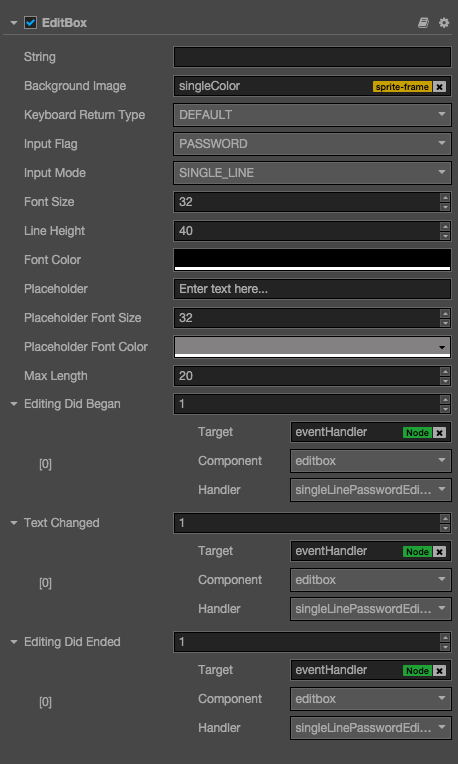
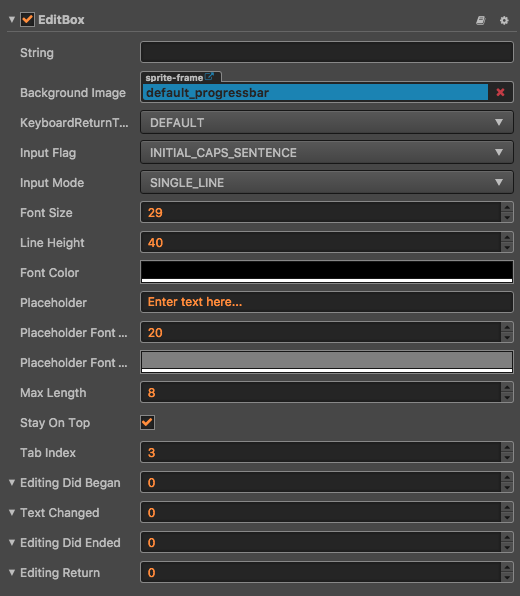
add editbox StayOnTop and TabIndex docs

diff --git a/source/zh/components/editbox.md b/source/zh/components/editbox.md
@@ -17,7 +17,9 @@ EditBox 的脚本接口请参考[EditBox API](../api/classes/EditBox.html)。
 | Keyboard Return Type | 指定移动设备上面回车按钮的样式
 | Input Flag | 指定输入标识：可以指定输入方式为密码或者单词首字母大写
 | Input Mode | 指定输入模式: ANY 表示多行输入，其它都是单行输入，移动平台上还可以指定键盘样式。
-|Font Size| 输入框文本的字体大小
+| Font Size| 输入框文本的字体大小
+| StayOnTop | 输入框总是可见，并且永远在游戏视图的上面
+| TabIndex | 修改 DOM 输入元素的 tabIndex，这个属性只有在 Web 上面修改有意义。
 |Line Height| 输入框文本的行高
 |Font Color| 输入框文本的颜色
 |Placeholder|输入框占位符的文本内容
@@ -58,6 +60,8 @@ EditBox 的脚本接口请参考[EditBox API](../api/classes/EditBox.html)。
 - 如果需要输入密码，则需要把 Input Flag 设置为 password，同时 Input Mode 必须是 Any 之外的选择，一般选择 Single Line。
 - 如果要输入多行，可以把 Input Mode 设置为 Any。
 - 背景图片支持九宫格缩放
+
+注意：如果在 iframe 里面使用，最好把 `stayOnTop` 属性设置为 true
 
 <hr>
 

diff --git a/source/en/components/editbox.md b/source/en/components/editbox.md
@@ -18,6 +18,8 @@ For EditBox API reference, please refer to [EditBox API](../api/classes/EditBox.
 | Input Flag | Specify the input flag: password or capitalize word.
 | Input Mode | Specify the input mode: multiline or single line.
 |Font Size| The font size of input label.
+| StayOnTop | The input is always visible and be on top of the game view.
+| TabIndex | Set the tabIndex of the DOM input element, only useful on Web.
 |Line Height| The line height of input label.
 |Font Color| The font color of input label.
 |Placeholder|The content string of placeholder.
@@ -57,3 +59,5 @@ For EditBox API reference, please refer to [EditBox API](../api/classes/EditBox.
 - If you want to input password, you need set `Input Flag` to `PASSWORD` and the `InputMode` mustn't be `ANY`, usually we use `SingleLine`.
 - If you want to enable multiline input support, the flag of `InputMode` should be set to `Any`.
 - The background image of EditBox support slice 9, you could customize the border as you did in Sprite component.
+
+Note: When used in a iframe, you should set `stayOnTop` property to true.
